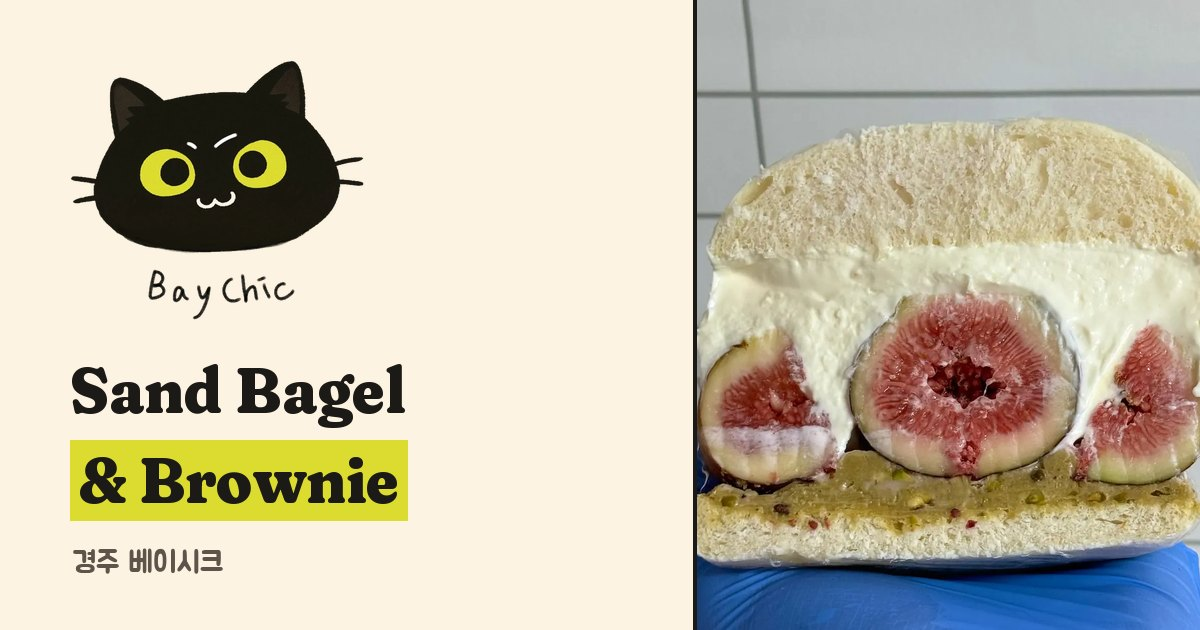
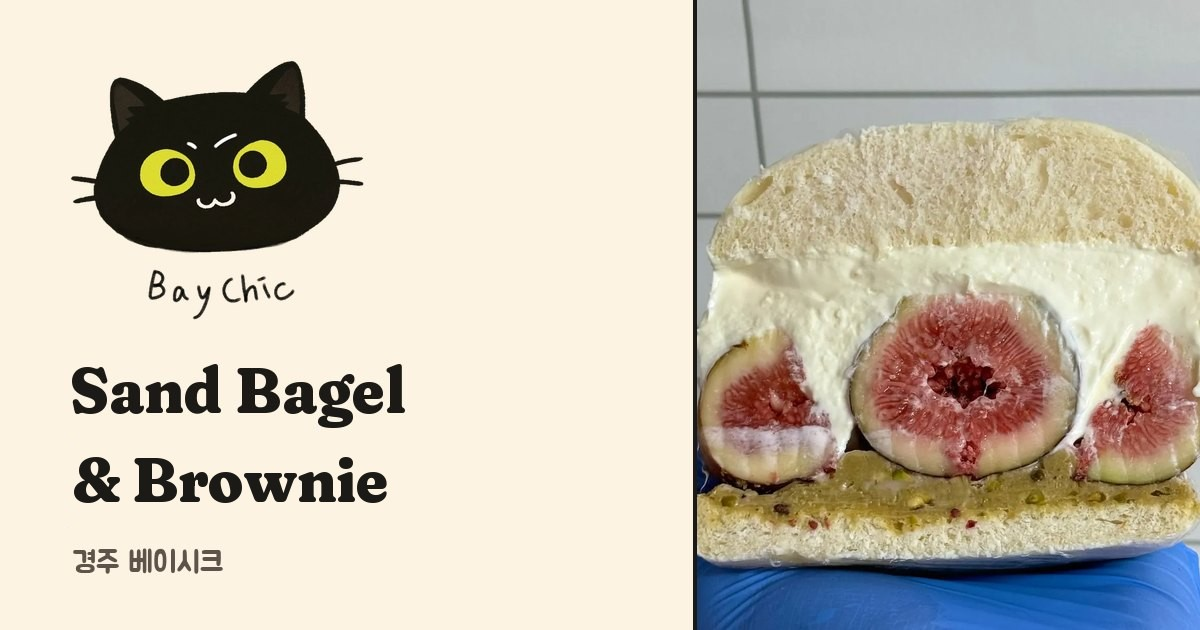
Add files via upload

Changed region(s): [[0.0308, 0.6937, 0.3392, 0.8444]]

diff --git a/index.html b/index.html
@@ -45,7 +45,6 @@
   --paper:#FFFAF0;
   --ink:#1C1A17;         /* bg 대비 15.8:1 */
   --soft:#5E554A;        /* bg 대비 6.6:1 */
-  --yel:#DCDC30;         /* 고양이 눈 실측 · ink 대비 11.8:1 (면 · 칩에만) */
   --line:#E7DAC2;
   --dark-soft:#B9B2A6;   /* ink 면 위 8.3:1 */
   --serif:"BC Serif","BC Round","BC Sans",-apple-system,"Apple SD Gothic Neo","Malgun Gothic",sans-serif;
@@ -74,10 +73,9 @@ p{ margin:0; }
 
 .btn{ display:inline-flex; align-items:center; justify-content:center; gap:8px; min-height:52px; padding:0 22px; border:2px solid var(--ink); border-radius:4px; font-weight:600; font-size:.96rem; transition:background .2s ease, color .2s ease, transform .15s ease; }
 .btn.fill{ background:var(--ink); color:var(--bg); }
-.btn.yel{ background:var(--yel); }
 .btn small{ font-weight:400; font-size:.8rem; opacity:.8; }
 .btn:active{ transform:scale(.97); }
-@media (hover:hover){ .btn:not(.fill):hover{ background:var(--ink); color:var(--bg); } .btn.fill:hover{ background:var(--yel); color:var(--ink); } }
+@media (hover:hover){ .btn:not(.fill):hover{ background:var(--ink); color:var(--bg); } .btn.fill:hover{ background:transparent; color:var(--ink); } }
 
 /* 헤더 */
 .site-head{ position:sticky; top:0; z-index:50; background:rgba(252,243,226,.94); backdrop-filter:blur(8px); -webkit-backdrop-filter:blur(8px); border-bottom:2px solid var(--ink); }
@@ -97,14 +95,13 @@ p{ margin:0; }
 @media (min-width:900px){ .hero{ padding:70px 0 110px; } .hero .wrap{ grid-template-columns:1.05fr .95fr; gap:64px; } }
 .hero .cat{ width:min(56%,280px); }
 .hero h1{ font-family:var(--serif); font-weight:800; font-size:clamp(2.4rem,7vw,4.4rem); line-height:1.02; letter-spacing:-.02em; margin-top:26px; }
-.hero h1 em{ font-style:normal; background:var(--yel); padding:0 .12em; }
 .hero .ko-l{ font-family:var(--round); font-size:clamp(1.25rem,3vw,1.6rem); margin-top:18px; }
 .hero .d{ margin-top:12px; color:var(--soft); max-width:30em; }
 .hero .cta{ display:flex; flex-wrap:wrap; gap:8px; margin-top:28px; }
 .hero .hours{ margin-top:16px; font-size:.88rem; color:var(--soft); }
 .hero figure{ margin:0; position:relative; }
 .hero figure img{ width:100%; aspect-ratio:4/5; object-fit:cover; border:2px solid var(--ink); border-radius:4px; }
-.hero figure .badge{ position:absolute; left:-12px; bottom:22px; background:var(--yel); border:2px solid var(--ink); padding:8px 14px; font-family:var(--serif); font-weight:800; font-size:1rem; transform:rotate(-4deg); border-radius:4px; }
+.hero figure .badge{ position:absolute; left:-12px; bottom:22px; background:var(--ink); color:var(--bg); border:2px solid var(--ink); padding:8px 14px; font-family:var(--serif); font-weight:800; font-size:1rem; transform:rotate(-4deg); border-radius:4px; }
 
 /* 샌드베이글 */
 #sandbagel{ border-top:2px solid var(--ink); }
@@ -114,7 +111,7 @@ p{ margin:0; }
 .sb-g img{ width:100%; aspect-ratio:4/5; object-fit:cover; border:2px solid var(--ink); border-radius:4px; }
 .sb-g figcaption{ margin-top:8px; font-family:var(--round); font-size:1rem; }
 .sb-note{ margin-top:26px; display:flex; flex-wrap:wrap; align-items:center; gap:10px 16px; }
-.chip{ display:inline-block; background:var(--yel); border:2px solid var(--ink); padding:4px 12px; font-family:var(--round); font-size:.95rem; border-radius:4px; }
+.chip{ display:inline-block; background:transparent; border:2px solid var(--ink); padding:4px 12px; font-family:var(--round); font-size:.95rem; border-radius:4px; }
 .sb-note p{ color:var(--soft); font-size:.92rem; }
 
 /* 디저트 (흰 면) */
@@ -141,8 +138,8 @@ p{ margin:0; }
 .notice img{ width:min(46%,220px); }
 .notice h2{ font-family:var(--serif); font-weight:800; font-size:clamp(1.9rem,5vw,3rem); line-height:1.1; }
 .notice p{ font-family:var(--round); font-size:1.15rem; color:var(--dark-soft); margin-top:10px; }
-.notice .btn{ border-color:var(--yel); background:var(--yel); color:var(--ink); }
-@media (hover:hover){ .notice .btn:hover{ background:transparent; color:var(--yel); } }
+.notice .btn{ border-color:var(--bg); background:var(--bg); color:var(--ink); }
+@media (hover:hover){ .notice .btn:hover{ background:transparent; color:var(--bg); } }
 
 /* 오시는 길 */
 .visit{ display:grid; gap:36px; margin-top:42px; }
@@ -189,7 +186,7 @@ p{ margin:0; }
     <div class="wrap">
       <div class="reveal">
         <img class="cat" src="bc-cat.webp" alt="노란 눈의 검은 고양이 캐릭터와 Bay Chic 글씨" width="700" height="618" />
-        <h1>Sand Bagel,<br /><em>Brownie</em> &amp; Cheesecake</h1>
+        <h1>Sand Bagel,<br />Brownie &amp; Cheesecake</h1>
         <p class="ko-l">쫀득하고 부드러운 베이글</p>
         <p class="d">쫀득하고 부드러운 베이글과 직접 수제로 만들어 퀄리티 있는 브라우니 · 치즈케이크, 동물성 생크림 등을 넣은 샌드베이글이 있는 디저트 샵 :)</p>
         <div class="cta">
